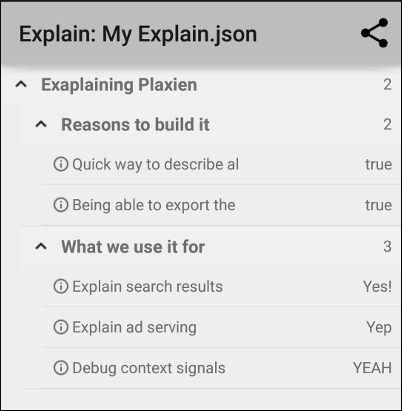
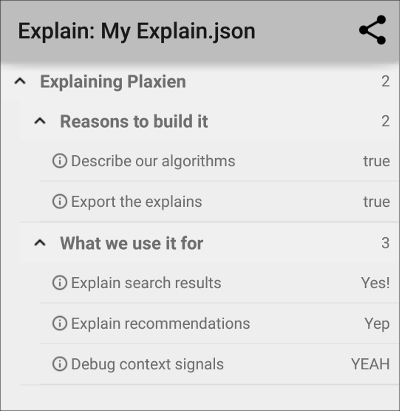
Minor touch ups to README

diff --git a/README.md b/README.md
@@ -1,7 +1,7 @@
 # Plaxien
 ## Let Your App Explain Itself Beautifully
 
-Plaxien is a small library we use at EverythingMe, that allows us to create "Explains" - easy to read representations of the internal state of the app.
+Plaxien is a small library we use at EverythingMe, that allows us to create "Explains" - easy to read representations of in-app data and logic.
 
 Basically it can represent hierarchical data composed of "nodes" and "key/value" pairs in a nice collapsible tree view. It looks something like this:
 
@@ -12,7 +12,7 @@ Basically it can represent hierarchical data composed of "nodes" and "key/value"
 The idea is simple - you want to be able to peek into your app's internal logic beyond logs.
 It could be anything - why did a search result return? What's the metadata of the current user? etc.
 
-That's why in debug builds of our app, we add Explain Views for different parts of our system (Smart Folders, Contextual Insights, Ads, In-phone search, etc).
+That's why in debug builds of our app, we add Explain Views for different parts of our system (Smart Folders, Contextual Insights, App Recommendations, In-phone search, etc).
 Over the years different features in our product had solved this ad-hoc using a number of techniques,
 but we wanted a simple, unified way to create those views.
 
@@ -27,18 +27,18 @@ Then you can either embed an `ExplainView` right in any activity, or launch an a
 ```java
 
         // First we create the root of the tree
-        Explain.Node node = new Explain.Node("Exaplaining Plaxien", null);
+        Explain.Node node = new Explain.Node("Explaining Plaxien", null);
 
         // Now we can add sub-nodes.
         node.addChild("Reasons to build it")
                 // To sub nodes we can add values
-                .addValue("Quick way to describe algorithms", true)
-                .addValue("Being able to export the explains", true);
+                .addValue("Describe our algorithms", true)
+                .addValue("Export the explains", true);
 
         // Repeat as much as you want and as deep as you want
         node.addChild("What we use it for")
                 .addValue("Explain search results", "Yes!")
-                .addValue("Explain ad serving", "Yep")
+                .addValue("Explain recommendations", "Yep")
                 .addValue("Debug context signals", "YEAH");
 
 
